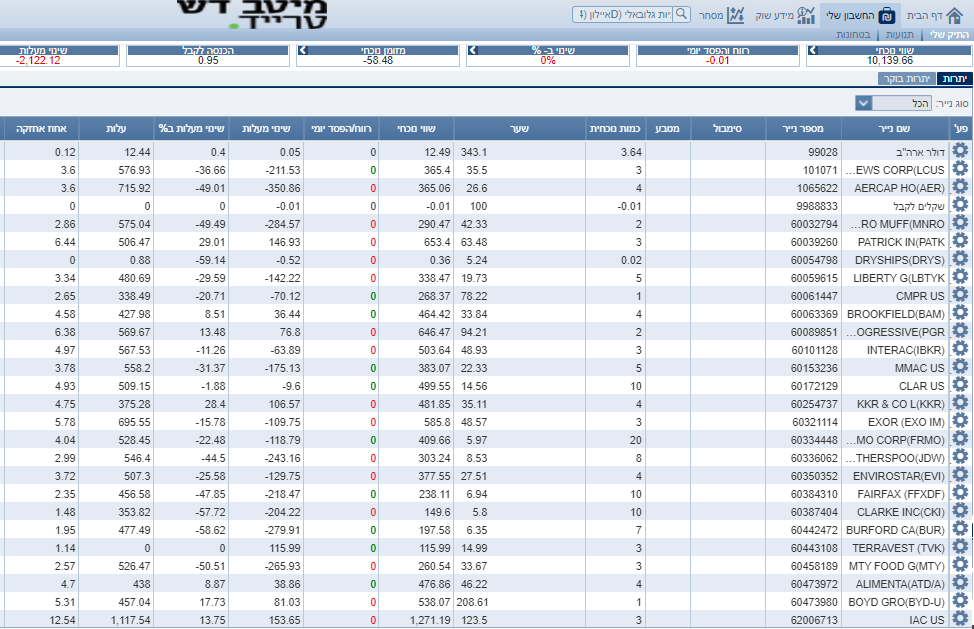
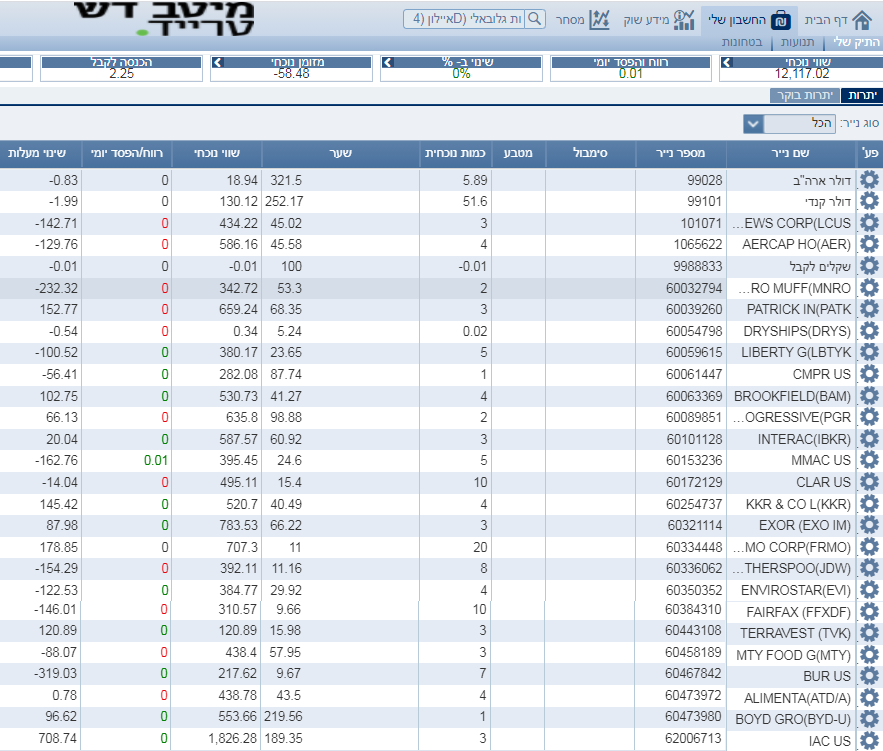
Updated bet-of-the-decade

diff --git a/blog/bet-of-the-decade.html b/blog/bet-of-the-decade.html
@@ -71,7 +71,7 @@
 <section class="row">
 <div class="coffee-span-12 header">
 <h3 class="heading-1" style="direction: rtl; font-size: 40px;">התערבות העשור: השקעה פאסיבית מול מנוהלת</h3>
-<p class="paragraph" style="font-size:12px;">פורסם בתאריך 30.6.2019, עדכון אחרון ב-5.10.2020</p>
+<p class="paragraph" style="font-size:12px;">פורסם בתאריך 30.6.2019, עדכון אחרון ב-3.1.2021</p>
 <p class="paragraph" style="font-size:12px;">התכנים בפוסט זה, כמו כל שאר התכנים בבלוג, הינם תכנים לימודיים במהותם, הם אינם מהווים ייעוץ או המלצה לביצוע פעולה בנייר ערך, ואין לראות בהם תחליף לייעוץ השקעות ו/או ייעוץ פנסיוני המתחשב בצרכיו הייחודיים של כל אדם.</p>
 <br>
 <div class="container table-row">
@@ -118,17 +118,17 @@
 <p class="paragraph"><b>מדוע דווקא המדדים הללו?</b> כיוון שמדדי מניות קטנות מספקים תשואה היסטורית (נומינלית) של כ-12% לשנה בממוצע רב-שנתי, ומדדי מניות גדולות מספקים תשואה של כ-10% לשנה בממוצע רב-שנתי, יש היגיון בחשיפה משמעותית של התיק גם למניות קטנות ולא רק למניות גדולות או מניות ענק כמו המניות הכלולות במדד ה-S&P 500 למשל (כמובן שהתשואה העודפת באה ע"ח תנודתיות גבוהה יותר). הסיבה לבחירת שני מדדים ולא מדד גלובלי אחד שכולל גם חברות גדולות וגם קטנות (כדוגמת MSCI World All Cap Index) היא שהמשקל של כמה מאות מניות ענק במדד עולמי אחד מהווה כ-80-90% מכלל המדד, כך שאלפי חברות קטנות יותר מקבלות חשיפה מאוד נמוכה. לכן, בחר רונן להקצות 50% מהתיק למדד מניות גדולות ו-50% למדד מניות קטנות. אין לראות בתיק זה משום המלצה לביצוע פעולה בניירות ערך או לייעוץ השקעות המתחשב בצרכיו הייחודיים של כל אדם.</p>
 
 <p class="paragraph" style="padding-top: 20px; font-size:22px; color: #008000" id="results">תוצאות ההתערבות</p>
-<p class="paragraph">התוצאות שלהלן הינן התוצאות המצטברות ממועד תחילת ההתערבות (ה-1.7.2019) ועד ה-5.10.2020. נכון למועד זה:</p>
-<p class="paragraph">התיק של יואב השיג תשואה מצטברת שלילית של <b>14.82%-</b>.</p>
-<p class="paragraph">התיק של רונן השיג תשואה מצטברת חיובית של <b>6.95%</b>.</p>
-<p class="paragraph">הפרש התשואות עומד כרגע על <b>21.77%</b> לזכות התיק של רונן, המהווה גידול של 9.5% בהפרש התשואות מהרבעון הקודם.</p>
+<p class="paragraph">התוצאות שלהלן הינן התוצאות המצטברות ממועד תחילת ההתערבות (ה-1.7.2019) ועד ה-1.1.2021. נכון למועד זה:</p>
+<p class="paragraph">התיק של יואב השיג תשואה מצטברת של <b>7.08%</b>.</p>
+<p class="paragraph">התיק של רונן השיג תשואה מצטברת של <b>26.48%</b>.</p>
+<p class="paragraph">הפרש התשואות עומד כרגע על <b>19.4%</b> לזכות התיק של רונן, המהווה קיטון של 2.37% בהפרש התשואות מהרבעון הקודם.</p>
 <br>
 <p class="paragraph" style="font-size:18px;">סיכום תוצאות התיק של יואב</p>
-<p class="paragraph">התיק של יואב התחיל משווי של $3,455, ובנטרול עמלות הקניה החד פעמיות ($158) כמתואר בפרטי ההתערבות שלעיל, עמד על שווי של $3,613. נכון למועד הדיווח התיק עמד על שווי של $2,966 (10,139.66 ש"ח), כלומר שווי של $3,124 בנטרול עמלת הקניה, שווי המגלם תשואה שלילית של 13.54%-. בניכוי דמי הניהול המצטברים ($46) עומדת התשואה על 14.82%-. הטבלה שלהלן מפרטת את התשואות של כל אחת מהמניות בתיק של יואב.</p>
+<p class="paragraph">התיק של יואב התחיל משווי של $3,455, ובנטרול עמלות הקניה החד פעמיות ($158) כמתואר בפרטי ההתערבות שלעיל, עמד על שווי של $3,613. נכון למועד הדיווח התיק עמד על שווי של $3,769 (12,117.02 ש"ח), כלומר שווי של $3,927 בנטרול עמלת הקניה, שווי המגלם תשואה של 8.68%. בניכוי דמי הניהול המצטברים ($58) עומדת התשואה על 7.08%. הטבלה שלהלן מפרטת את התשואות של כל אחת מהמניות בתיק של יואב.</p>
 <p class="paragraph" style="text-align: center;"><img src="../images/results-yoav.png" alt="results-yoav"></p>
 <br>
 <p class="paragraph" style="font-size:18px;">סיכום תוצאות התיק של רונן</p>
-<p class="paragraph">התיק של רונן התחיל משווי של $200 ($100 לכל מדד) ועמד נכון למועד הדיווח על שווי של $213.89, המגלם תשואה של 6.95%. הגרף שלהלן מציג את התשואה של שני המדדים בתיק של רונן.</p>
+<p class="paragraph">התיק של רונן התחיל משווי של $200 ($100 לכל מדד) ועמד נכון למועד הדיווח על שווי של $252.95, המגלם תשואה של 26.48%. הגרף שלהלן מציג את התשואה של שני המדדים בתיק של רונן.</p>
 <p class="paragraph" style="text-align: center;"><img src="../images/results-ronen.png" alt="results-ronen"></p>
 <br>
 <script type='text/javascript' src='//form.ravpage.co.il/fbafa30d95b851a0b3ba5984f76428c55E9FF981' charset='UTF-8'></script>
